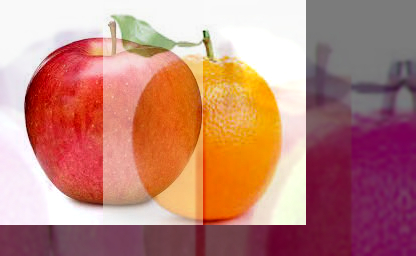
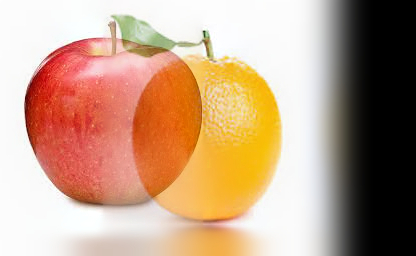
Merge with gausian kernel

diff --git a/laplace_blending.c b/laplace_blending.c
@@ -67,7 +67,7 @@ void crop_image(Image *img, int cut_top, int cut_bottom, int cut_left, int cut_r
 #define DEFINE_DESTROY_IMAGE_FUNC(NAME, PIXEL_T) \
     void NAME(PIXEL_T *img)                      \
     {                                            \
-        if (img->data != NULL)                           \
+        if (img->data != NULL)                   \
         {                                        \
             free(img->data);                     \
         }                                        \
@@ -228,10 +228,6 @@ void destroy_blender(Blender *blender)
                     {                                                                  \
                         sum = (PIXEL_T)clamp(ceil(sum), 0, 255);                       \
                     }                                                                  \
-                    else if (data->image_type == IMAGES)                               \
-                    {                                                                  \
-                        sum = ceil(sum);                                               \
-                    }                                                                  \
                     sampled[(y * data->new_width + x) * img->channels + c] = sum;      \
                 }                                                                      \
             }                                                                          \
@@ -240,8 +236,8 @@ void destroy_blender(Blender *blender)
     }
 
 DEFINE_DOWNSAMPLE_WORKER_FUNC(down_sample_operation, Image, unsigned char)
-DEFINE_DOWNSAMPLE_WORKER_FUNC(down_sample_operation_f, Image, float)
-DEFINE_DOWNSAMPLE_WORKER_FUNC(down_sample_operation_s, Image, short)
+DEFINE_DOWNSAMPLE_WORKER_FUNC(down_sample_operation_f, ImageF, float)
+DEFINE_DOWNSAMPLE_WORKER_FUNC(down_sample_operation_s, ImageS, short)
 
 #define DEFINE_DOWNSAMPLE_FUNC(NAME, IMAGE_T, PIXEL_T, IMAGE_T_ENUM)                                        \
     IMAGE_T NAME(IMAGE_T *img)                                                                              \
@@ -308,10 +304,6 @@ DEFINE_DOWNSAMPLE_FUNC(downsample_f, ImageF, float, IMAGEF)
                     if (s->image_type == IMAGE)                                                     \
                     {                                                                               \
                         sum = (PIXEL_T)clamp(floor(sum + 0.5), 0, 255);                             \
-                    }                                                                               \
-                    else if (s->image_type == IMAGES)                                               \
-                    {                                                                               \
-                        sum = floor(sum + 0.5);                                                     \
                     }                                                                               \
                     sampled[up_image_pos] = sum;                                                    \
                 }                                                                                   \
@@ -431,7 +423,7 @@ void *feed_worker(void *args)
 
 int feed(Blender *b, Image *img, Image *mask_img, Point tl)
 {
-    char buf[100];
+    ImageS images[b->num_bands + 1];
     int return_val = 1;
 
     int gap = 3 * (1 << b->num_bands);
@@ -472,12 +464,10 @@ int feed(Blender *b, Image *img, Image *mask_img, Point tl)
     add_border_to_image(img, top, bottom, left, right, CHANNELS, BORDER_REFLECT);
     add_border_to_image(mask_img, top, bottom, left, right, 1, BORDER_CONSTANT);
 
-    ImageS images[b->num_bands + 1];
     images[0] = create_empty_image_s(img->width, img->height, img->channels);
     convert_image_to_image_s(img, &images[0]);
     for (int j = 0; j < b->num_bands; ++j)
     {
-
         images[j + 1] = downsample_s(&images[j]);
         if (!images[j + 1].data)
         {
@@ -485,20 +475,19 @@ int feed(Blender *b, Image *img, Image *mask_img, Point tl)
             goto clean;
         }
 
-        ImageS up = upsample_image_s(&images[j + 1], 4.f);
-        if (!up.data)
+        b->img_laplacians[j] = upsample_image_s(&images[j + 1], 4.f);
+        if (!&b->img_laplacians[j])
         {
             return_val = 0;
             goto clean;
         }
 
-        compute_laplacian(&images[j], &up);
-        b->img_laplacians[j] = up;
+        compute_laplacian(&images[j], &b->img_laplacians[j]);
     }
 
     b->img_laplacians[b->num_bands] = images[b->num_bands];
     ImageS sampled;
-    ImageS mask_img_ = create_empty_image_s(mask_img->width,mask_img->height,mask_img->channels);
+    ImageS mask_img_ = create_empty_image_s(mask_img->width, mask_img->height, mask_img->channels);
     convert_image_to_image_s(mask_img, &mask_img_);
     for (int j = 0; j < b->num_bands; ++j)
     {
@@ -552,6 +541,11 @@ int feed(Blender *b, Image *img, Image *mask_img, Point tl)
         y_br /= 2;
     }
 clean:
+    for (size_t i = 0; i <= b->num_bands; i++)
+    {
+        destroy_image_s(&images[i]);
+    }
+
     return return_val;
 }
 
@@ -565,8 +559,7 @@ void *blend_worker(void *args)
     {
         if (i < b->out_size)
         {
-            b->blended_image.data[i] = clamp(
-                b->blended_image.data[i] + b->out_level.data[i], 0, 255);
+            b->blended_image.data[i] = b->blended_image.data[i] + b->out_level.data[i];
         }
     }
     return NULL;
@@ -594,7 +587,7 @@ void *normalize_worker(void *args)
                     if (imgIndex < image_size_s(&n->final_out[n->level]))
                     {
 
-                        n->final_out[n->level].data[imgIndex] = (n->out[n->level].data[imgIndex] / (w + WEIGHT_EPS));
+                        n->final_out[n->level].data[imgIndex] = (short)(n->out[n->level].data[imgIndex] / (w + WEIGHT_EPS));
                     }
                 }
             }
@@ -605,9 +598,6 @@ void *normalize_worker(void *args)
 
 void blend(Blender *b)
 {
-
-    char buf[100];
-
     for (int level = 0; level <= b->num_bands; ++level)
     {
         b->final_out[level] = create_empty_image_s(b->out[level].width, b->out[level].height, b->out[level].channels);
@@ -623,12 +613,10 @@ void blend(Blender *b)
     }
 
     ImageS blended_image = b->final_out[b->num_bands];
-    ImageS ubi;
 
     for (int level = b->num_bands; level > 0; --level)
     {
-        ubi = upsample_image_s(&blended_image, 4.f);
-        blended_image = ubi;
+        blended_image = upsample_image_s(&blended_image, 4.f);
         int out_size = image_size_s(&b->final_out[level - 1]);
 
         BlendThreadData btd = {out_size, blended_image, b->final_out[level - 1]};
@@ -643,18 +631,13 @@ void blend(Blender *b)
     b->result.width = blended_image.width;
     b->result.height = blended_image.height;
 
-    convert_images_to_image(&blended_image,&b->result);
-    free(ubi.data);
+    convert_images_to_image(&blended_image, &b->result);
+    free(blended_image.data);
 }
 
 void parallel_operator(OperatorType operatorType, ParallelOperatorArgs *arg)
 {
     int numThreads = get_cpus_count();
-    if (operatorType == FEED || operatorType == NORMALIZE)
-    {
-        numThreads = 1;
-    }
-
     int rowsPerThread = arg->rows / numThreads;
     int remainingRows = arg->rows % numThreads;
 
@@ -693,7 +676,6 @@ void parallel_operator(OperatorType operatorType, ParallelOperatorArgs *arg)
                 default:
                     break;
                 }
-               
             }
             else
             {
@@ -711,7 +693,6 @@ void parallel_operator(OperatorType operatorType, ParallelOperatorArgs *arg)
                 default:
                     break;
                 }
-                
             }
 
             break;

diff --git a/tests/test.c b/tests/test.c
@@ -3,69 +3,84 @@
 #include <time.h>
 #include <string.h>
 #include <stdlib.h>
-// #include "laplace_blending.h"
-// #include "utils.h"
+#include "laplace_blending.h"
+#include "utils.h"
+
+void test_sampling_operations()
+{
+    int data[16] = {10, 20, 30, 40, 50, 60, 70, 80, 90, 100, 110, 120, 130, 140, 150, 160};
+    int expected[4] = {48, 59, 93, 104};
+    int expected_up[16] = {62, 65, 69, 70, 73, 76, 80, 82, 90, 93, 97, 98, 96, 99, 103, 104};
+    Image mask1 = create_empty_image(4, 4, 1);
+    for (int i = 0; i < 16; i++)
+    {
+        mask1.data[i] = data[i];
+    }
+
+    Image down = downsample(&mask1);
+    if (image_size(&down) != 4)
+    {
+        printf("FATAL Image  size doesn't match expected expected 16 , got (%d)\n", image_size(&down));
+        exit(1);
+    }
+    for (int i = 0; i < 4; i++)
+    {
+        if (down.data[i] != expected[i])
+        {
+            printf("FATAL Image  pixel  doesn't match expected (%d) got (%d)\n", expected[i], down.data[i]);
+        }
+    }
+
+    Image up = upsample(&down, 4.f);
+    if (image_size(&up) != 16)
+    {
+        printf("FATAL Image  size doesn't match expected expected 16 , got (%d)\n", image_size(&down));
+        exit(1);
+    }
+    for (int i = 0; i < 16; i++)
+    {
+        if (abs(up.data[i] - expected_up[i]) > 0)
+        {
+            printf("FATAL Image  pixel  doesn't match expected (%d) got (%d)\n", expected_up[i], up.data[i]);
+            exit(1);
+        }
+    }
+
+    int data2[48] = {249, 144, 1, 251, 146, 3, 254, 149, 6, 255, 152, 9, 250, 145, 2, 252, 147, 4, 254, 149,
+                     6, 255, 151, 8, 252, 147, 4, 252, 147, 4, 253, 148, 5, 254, 149, 6, 253, 148, 5, 253, 148, 5, 253, 148, 5, 253, 148, 5};
+    Image rgb_image = create_empty_image(4, 4, CHANNELS);
+    for (int i = 0; i < image_size(&rgb_image); i++)
+    {
+        rgb_image.data[i] = data2[i];
+    }
+
+    destroy_image(&mask1);
+    destroy_image(&down);
+    destroy_image(&rgb_image);
+}
 
 int main()
 {
 
-    unsigned char a = 343;
-    printf("%d \n",a);
-    // int data[16] = {10, 20, 30, 40, 50, 60, 70, 80, 90, 100, 110, 120, 130, 140, 150, 160};
-    // int expected[4] = {48, 59, 93, 104};
-    // int expected_up[16] = {62, 65, 69, 70,73,  76,  80,  82,90,  93,  97,  98,96,  99, 103, 104};
-    // Image mask1 = create_empty_image(4, 4, 1);
-    // for (int i = 0; i < 16; i++)
-    // {
-    //     mask1.data[i] = data[i];
-    // }
+    Image img_buf1 = create_image("../files/apple.jpeg");
+    Image d = downsample(&img_buf1);
+    save_image(&d, "test1.jpg");
 
-    // Image down = downsample(&mask1);
-    // if (image_size(&down) != 4)
-    // {
-    //     printf("FATAL Image  size doesn't match expected expected 16 , got (%d)\n", image_size(&down));
-    //     exit(1);
-    // }
-    // for (int i = 0; i < 4; i++)
-    // {
-    //     if (down.data[i] != expected[i])
-    //     {
-    //         printf("FATAL Image  pixel  doesn't match expected (%d) got (%d)\n", expected[i], down.data[i]);
-    //     }
-    // }
+    ImageS imgs = create_empty_image_s(img_buf1.width, img_buf1.height, img_buf1.channels);
 
-    // Image up = upsample(&down,4.f);
-    // if (image_size(&up) != 16)
-    // {
-    //     printf("FATAL Image  size doesn't match expected expected 16 , got (%d)\n", image_size(&down));
-    //     exit(1);
-    // }
-    // for (int i = 0; i < 16; i++)
-    // {
-    //     if (abs(up.data[i] - expected_up[i]) > 0)
-    //     {
-    //         printf("FATAL Image  pixel  doesn't match expected (%d) got (%d)\n", expected_up[i], up.data[i]);
-    //         exit(1);
-    //     }
-    // }
+    convert_image_to_image_s(&img_buf1, &imgs);
+    ImageS ds = downsample_s(&imgs);
+    Image ds1 = create_empty_image(ds.width, ds.height, ds.channels);
+    convert_images_to_image(&imgs, &img_buf1);
+    convert_images_to_image(&ds, &ds1);
 
-    // int data2[48] = {249, 144, 1, 251, 146, 3, 254, 149, 6, 255, 152, 9, 250, 145, 2, 252, 147, 4, 254, 149,
-    //                  6, 255, 151, 8, 252, 147, 4, 252, 147, 4, 253, 148, 5, 254, 149, 6, 253, 148, 5, 253, 148, 5, 253, 148, 5, 253, 148, 5};
-    // Image rgb_image = create_empty_image(4, 4, CHANNELS);
-    // for (int i = 0; i < image_size(&rgb_image); i++)
-    // {
-    //     rgb_image.data[i] = data2[i];
-    // }
+    save_image(&ds1, "test2.jpg");
 
-    // Image down2 = downsample(&rgb_image);
-    // for (int i = 0; i < 4; i++)
-    // {
-    //     int a = i * 3;
-    //     printf("%d %d %d\n", down2.data[a], down2.data[a + 1], down2.data[a + 2]);
-    // }
+    test_sampling_operations();
 
-    // destroy_image(&mask1);
-    // destroy_image(&down);
-    // destroy_image(&rgb_image);
-    // return 0;
+    destroy_image(&img_buf1);
+    destroy_image_s(&imgs);
+    destroy_image_s(&ds);
+
+    return 0;
 }

diff --git a/laplace_blending.h b/laplace_blending.h
@@ -120,11 +120,15 @@ void blend(Blender *b);
 void destroy_blender(Blender *blender);
 Image create_image(const char *filename);
 Image create_empty_image(int width, int height, int channels);
+ImageS create_empty_image_s(int width, int height, int channels);
+ImageF create_empty_image_f(int width, int height, int channels);
 Image create_image_mask(int width, int height, float range, int left, int right);
 int save_image(const Image *img, char *out_filename);
 int image_size(Image *img);
 void destroy_image(Image *img);
+void destroy_image_s(ImageS *img);
 Image upsample( Image *img,float upsample_factor);
 Image downsample( Image *img);
+ImageS downsample_s( ImageS *img);
 void crop_image(Image *img, int cut_top, int cut_bottom, int cut_left, int cut_right);
 void parallel_operator(OperatorType operatorType, ParallelOperatorArgs *arg);
